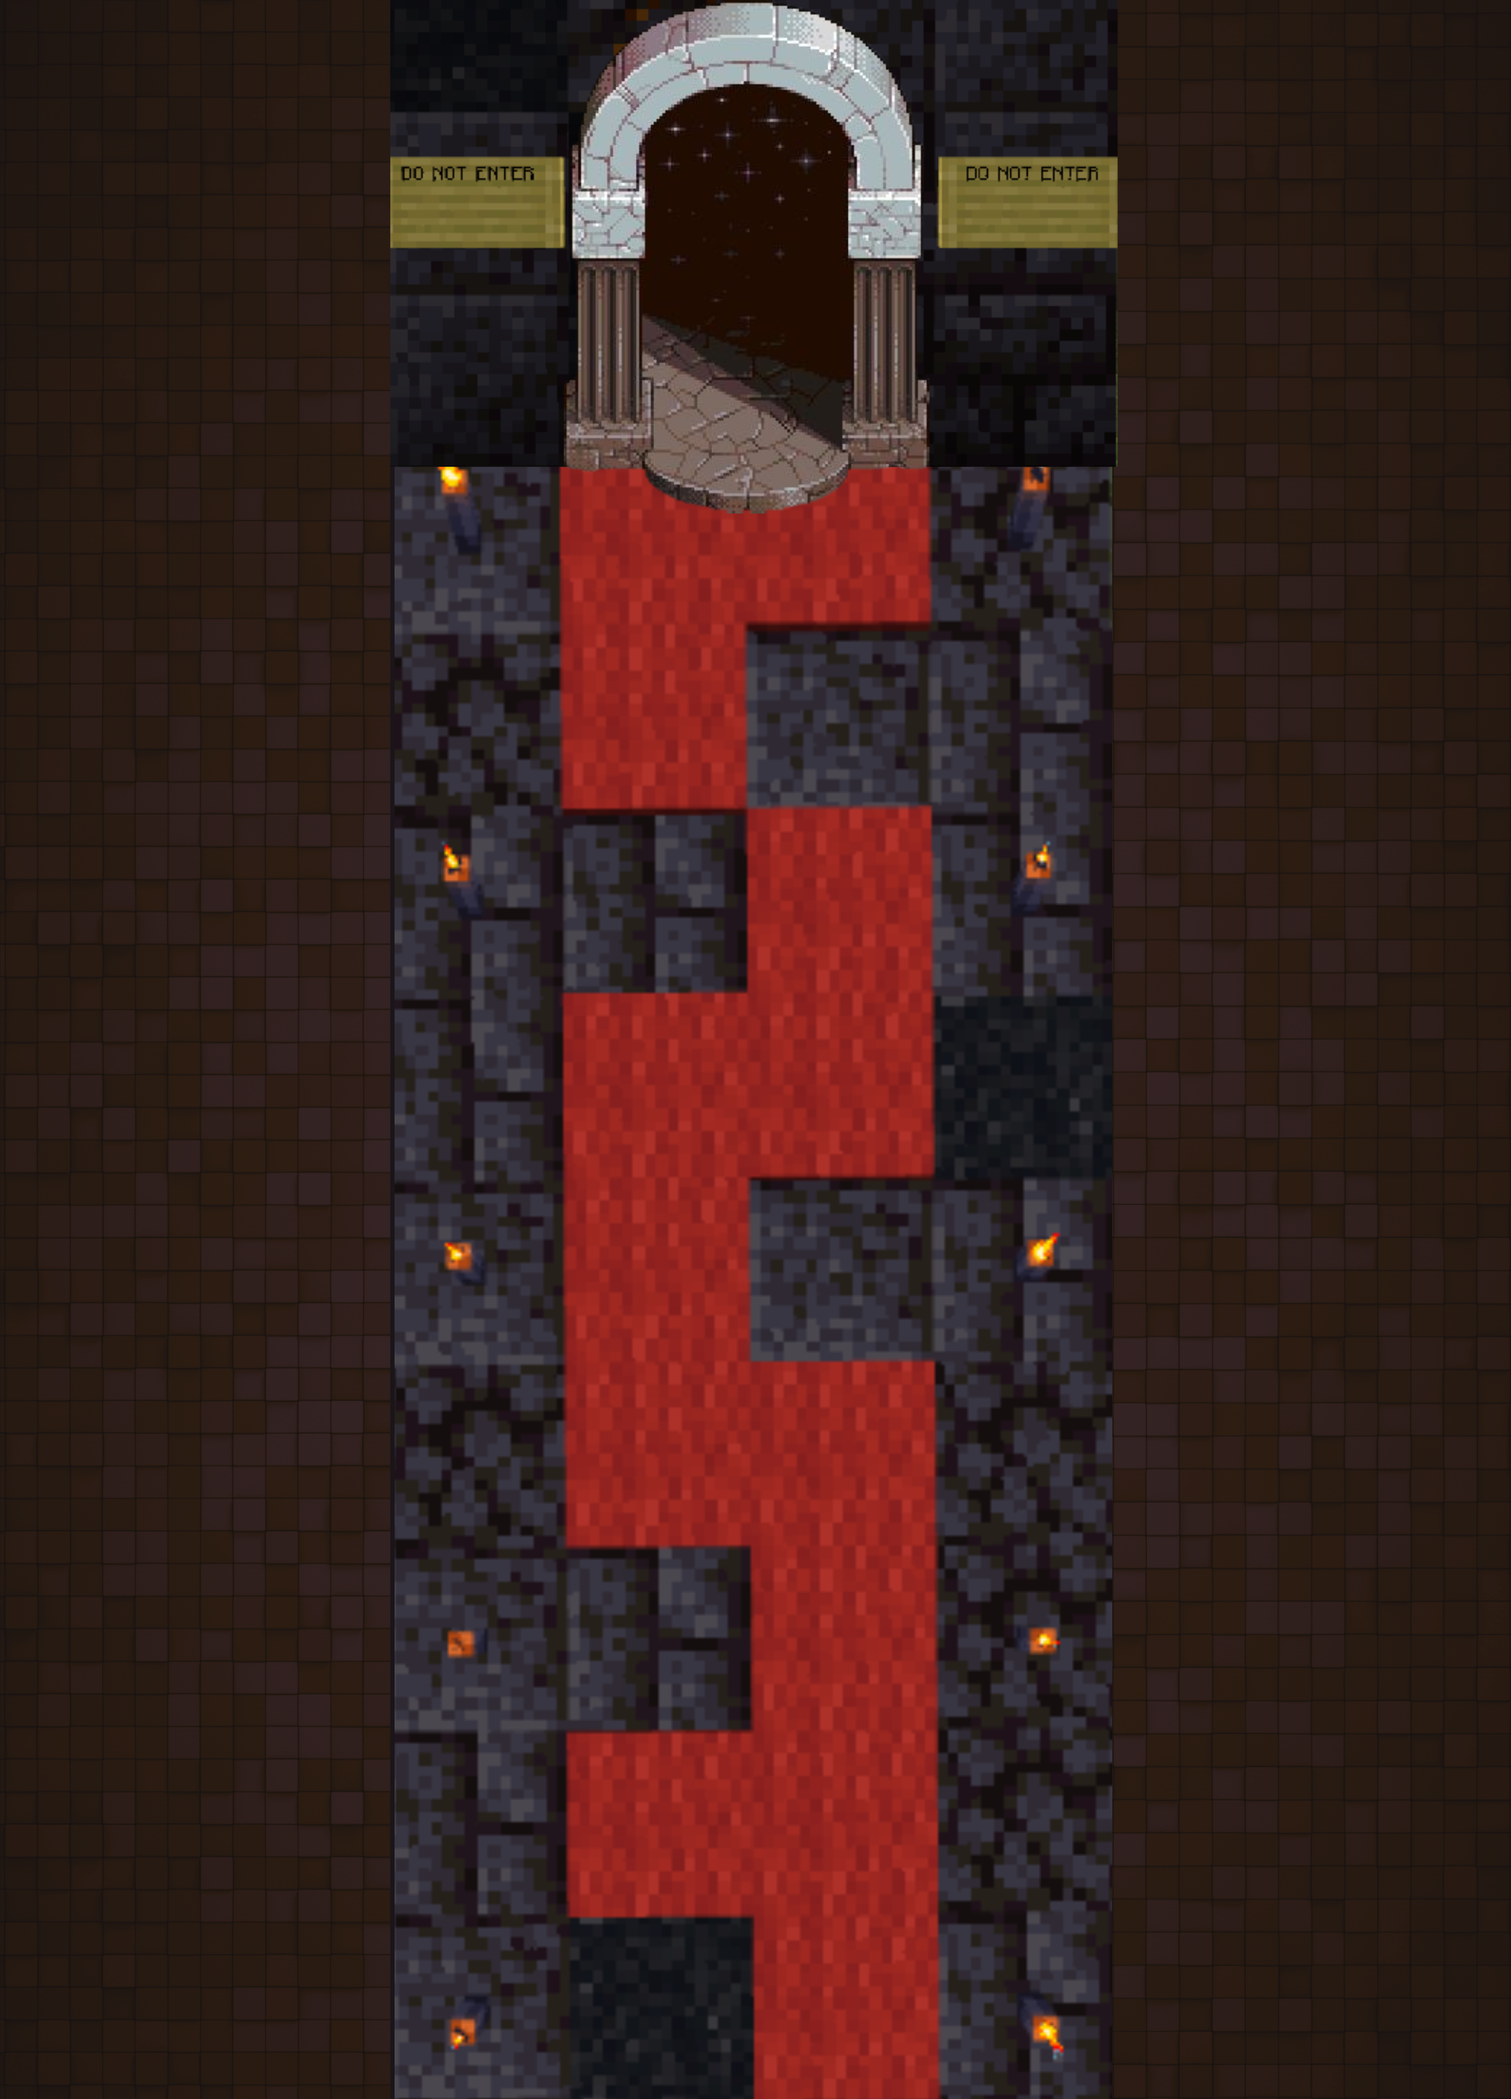
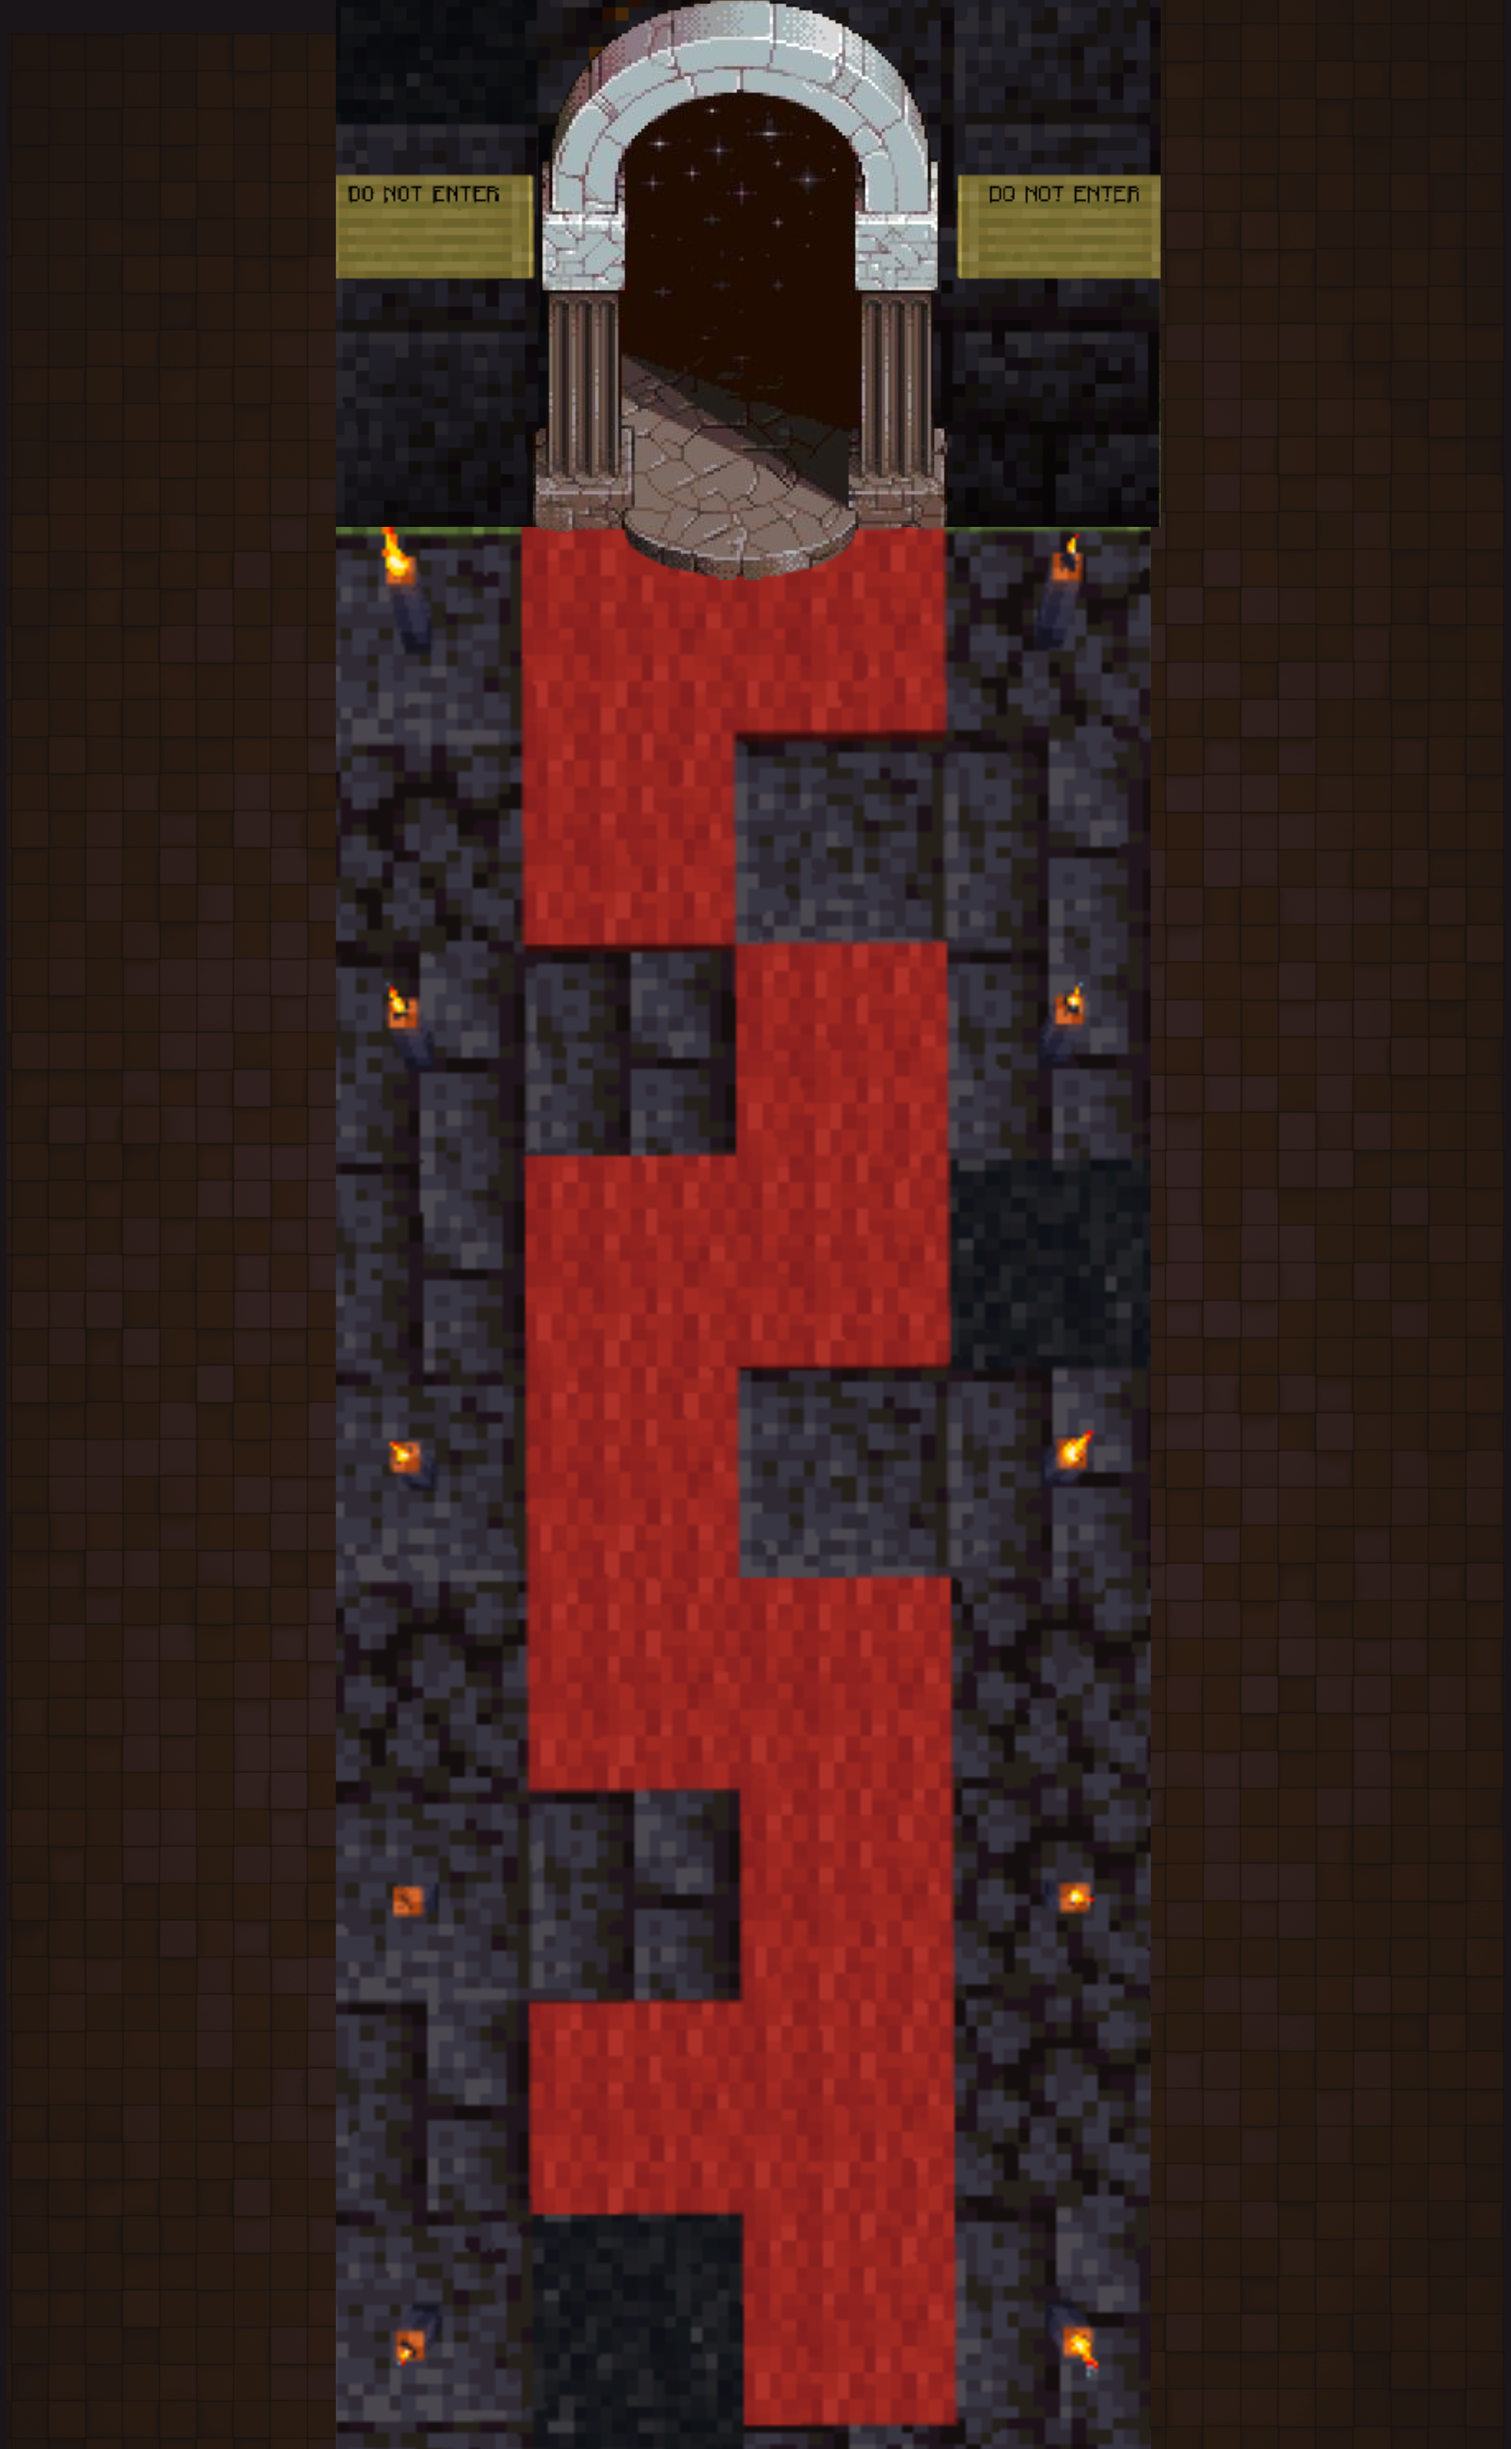
modified:   Scenes/config.py 	modified:   Scenes/fight.py 	modified:   Scenes/hallway.py 	modified:   Scenes/start.py 	modified:   images/floor3.png

Changed region(s): [[0.2171, 0.0, 0.7755, 1.0], [0.7444, 0.0, 0.7755, 0.031]]

diff --git a/Scenes/hallway.py b/Scenes/hallway.py
@@ -78,7 +78,7 @@ class Enemy(Entity):
                 next=self.next,
                 room=0,
                 enemy_image=self.image,
-                scale=self.scale,
+                scale=20 / self.width,
             )
             levels[level_manager.current_level]["entities"].enemy.hidden = True
 
@@ -155,10 +155,10 @@ right_rooms = [
 ]
 
 
-def load_floor3():
+def load_final_room():
     global text_anim
 
-    level_manager.load_level("floor3", player_pos=(0, 0))
+    level_manager.load_level("final_room", player_pos=(0, 0))
     sprite = Actor("narrative_icon", pos=(100, 580))
 
     text_anim = Dialogue(
@@ -187,7 +187,7 @@ def next_floor(current_floor):
         return
 
     if current_floor == "floor":
-        level_manager.load_level("floor2")
+        level_manager.load_level("floor2", player_pos=(0, -378))
         total_scrolls += SECOND_SCROLLS
         key_counter = 0
     if (
@@ -195,7 +195,7 @@ def next_floor(current_floor):
         and key_counter == 1
         and scroll_counter >= total_scrolls
     ):
-        load_floor3()
+        level_manager.load_level("floor3", player_pos=(0, 453))
 
 
 def create_room(name, world, floor, next_player_pos, left_side, enemy_type, scale=0.15):
@@ -217,7 +217,7 @@ def create_room(name, world, floor, next_player_pos, left_side, enemy_type, scal
             )
         ] + right_rooms
         enemy_spawn = (100, 0)
-    
+
     return {
         "world": Actor(world, scale=662 / 1080),
         "colliders": colliders,
@@ -402,14 +402,16 @@ levels = {
         ],
         "entities": ActorContainer(),
     },
-    "room1": create_room("room1", "stone_left", "floor", (-84, -370), True, 'green_moth'),
-    "room2": create_room("room2", "netherite_right", "floor", (96, -370), False, 'red_hood'),
-    "room3": create_room("room3", "wood_left", "floor", (-84, 48), True, 'dragon'),
-    "room4": create_room("room4", "stone_right", "floor", (96, 48), False, 'green_moth'),
-    "room5": create_room("room5", "purple_left", "floor", (-84, 219), True, 'green_moth'),
-    "room6": create_room("room6", "purple_right", "floor", (96, 219), False, 'green_moth'),
-    "room7": create_room("room7", "netherite_left", "floor", (-84, 501), True, 'green_moth'),
-    "room8": create_room("room8", "wood_right", "floor", (96, 501), False, 'green_moth'),
+    "room1": create_room(
+        "room1", "stone_left", "floor", (-84, -370), True, "green_moth", scale=0.1
+    ),
+    "room2": create_room("room2", "netherite_right", "floor", (96, -370), False, "scorpion", scale=0.15),
+    "room3": create_room("room3", "wood_left", "floor", (-84, 48), True, "dragon", scale=0.2),
+    "room4": create_room("room4", "stone_right", "floor", (96, 48), False, "dragon", scale=0.2),
+    "room5": create_room("room5", "purple_left", "floor", (-84, 219), True, "red_hood", scale=0.3),
+    "room6": create_room("room6", "purple_right", "floor", (96, 219), False, "green_moth", scale=0.1),
+    "room7": create_room("room7", "netherite_left", "floor", (-84, 501), True, "red_hood", scale=0.3),
+    "room8": create_room("room8", "wood_right", "floor", (96, 501), False, "scorpion", scale=0.15),
     "floor2": {
         "world": Actor("floor2", scale=0.3),
         "colliders": [
@@ -453,19 +455,33 @@ levels = {
         ],
         "entities": ActorContainer(),
     },
-    "room1-2": create_room("room1-2", "smooth_left", "floor2", (-84, -370), True, 'green_moth'),
-    "room2-2": create_room("room2-2", "brick_right", "floor2", (96, -370), False, 'green_moth'),
-    "room3-2": create_room("room3-2", "block_left", "floor2", (-84, 48), True, 'green_moth'),
-    "room4-2": create_room("room4-2", "smooth_right", "floor2", (96, 48), False, 'green_moth'),
-    "room5-2": create_room("room5-2", "brick_left", "floor2", (-84, 219), True, 'green_moth'),
-    "room6-2": create_room("room6-2", "block_right", "floor2", (96, 219), False, 'green_moth'),
+    "room1-2": create_room("room1-2", "smooth_left", "floor2", (-84, -370), True, "dragon", scale=0.2),
+    "room2-2": create_room("room2-2", "brick_right", "floor2", (96, -370), False, "red_hood", scale=0.3),
+    "room3-2": create_room("room3-2", "block_left", "floor2", (-84, 48), True, "scorpion", scale=0.15),
+    "room4-2": create_room("room4-2", "smooth_right", "floor2", (96, 48), False, "green_moth", scale=0.1),
+    "room5-2": create_room("room5-2", "brick_left", "floor2", (-84, 219), True, "dragon", scale=0.2),
+    "room6-2": create_room("room6-2", "block_right", "floor2", (96, 219), False, "red_hood", scale=0.3),
     "floor3": {
+        "world": Actor("floor3", scale=0.3),
+        "colliders": [
+            ColliderRect((-2160 * 0.3 / 2 + 81, -3500 * 0.3 / 2), (81, 3500 * 0.3)),
+            ColliderRect((2160 * 0.3 / 2 - 81 * 2, -3500 * 0.3 / 2), (81, 3500 * 0.3)),
+            ColliderRect((-2160 * 0.3 / 2 + 81, 3500 * 0.3 / 2), (3500 * 0.3, 10)),
+            ColliderRect(
+                (-2160 * 0.3 / 2 + 81, -3500 * 0.3 / 2 + 80),
+                (3500 * 0.3, 10),
+                fn=load_final_room,
+            ),
+        ],
+        'entities': ActorContainer()
+    },
+    "final_room": {
         "world": Actor("final_room"),
         "colliders": [
-            ColliderRect((-2300 / 2 * 0.3, -1300 / 2 * 0.3 - 10), (2300 * 0.3, 10)),
-            ColliderRect((2300 / 2 * 0.3, -1300 / 2 * 0.3), (10, 1300 * 0.3)),
-            ColliderRect((-2300 / 2 * 0.3, 1300 / 2 * 0.3 - 10), (2300 * 0.3, 10)),
-            ColliderRect((-2300 / 2 * 0.3 - 10, -1300 / 2 * 0.3), (10, 1300 * 0.3)),
+            ColliderRect((-662 / 2, -662 / 2 - 10), (662, 10)),
+            ColliderRect((662 / 2, -662 / 2), (10, 662)),
+            ColliderRect((-662 / 2, 662 / 2 - 10), (662, 10)),
+            ColliderRect((-662 / 2 - 10, -662 / 2), (10, 662)),
         ],
         "entities": ActorContainer(),
     },
@@ -526,6 +542,8 @@ class hallway(Scene):
 
         if text_anim is None or text_anim.is_complete():
             player.move()
+            
+        print(player.pos)
 
     def on_draw(self, screen):
         level_manager.draw(screen)

diff --git a/Scenes/start.py b/Scenes/start.py
@@ -3,8 +3,10 @@ from helper import Actor, ActorContainer, Music
 from pgzero.builtins import animate
 from Game import Button
 from . import config
+import sys
 
 player_button_pressed = False
+
 
 def fade_ui_elements(group: ActorContainer):
     for elm in group:
@@ -14,6 +16,11 @@ def fade_ui_elements(group: ActorContainer):
     group.hidden = False
     group.opacity = 0
     animate(group, opacity=255)
+
+
+def outro_sequence():
+    ui_elements.hidden = True
+    intro.play_gif("outro_card", iterations=1, on_finish=lambda: sys.exit(0))
 
 
 def set_difficulty(mode):
@@ -32,7 +39,7 @@ class StartScreen(Scene):
 
     def on_show(self, play_intro=True):
         global intro, ui_elements, play_button
-        
+
         def press_player_button():
             global player_button_pressed
             if not player_button_pressed:
@@ -49,34 +56,35 @@ class StartScreen(Scene):
         difficulty = ActorContainer(
             easy=Button(
                 "easy.png",
-                pos=(331, 480),
+                pos=(331, 490),
                 on_click=lambda key, unicode: set_difficulty("easy"),
                 scale=0.1,
             ),
             middle=Button(
                 "medium.png",
-                pos=(331, 520),
+                pos=(331, 530),
                 on_click=lambda key, unicode: set_difficulty("medium"),
                 scale=0.1,
             ),
             hard=Button(
                 "hard.png",
-                pos=(331, 560),
+                pos=(331, 570),
                 on_click=lambda key, unicode: set_difficulty("hard"),
                 scale=0.1,
             ),
             hidden=True,
         )
-        
-        play_button = Button(
-            "play_button.png",
-            pos=(331, 400),
-            on_click=lambda key, unicode: press_player_button(),
-            scale=0.1,
-        )
-        
+
         ui_elements = ActorContainer(
-            narrative_button=play_button,
+            narrative_button=Button(
+                "play_button.png",
+                pos=(331, 400),
+                on_click=lambda key, unicode: press_player_button(),
+                scale=0.1,
+            ),
+            exit_button=Button(
+                "exit", pos=(331, 450), on_click=lambda key, unicode: outro_sequence(), scale=0.1
+            ),
             difficulty_group=difficulty,
             hidden=True,
         )
@@ -105,9 +113,6 @@ class StartScreen(Scene):
 
     def on_mouse_down(self, pos, button):
         ui_elements.on_click(pos, button)
-
-    def on_key_down(self, key, unicode):
-        intro.skip_gif()
 
     def reset(self):
         global player_button_pressed

diff --git a/Scenes/config.py b/Scenes/config.py
@@ -6,7 +6,7 @@ exercise_sets = {
             {"exercise": (2, 4), "sets": (7, 10)},
             {"exercise": (3, 6), "sets": (10, 13)},
         ],
-        'time_limit': 60
+        'time_limit': 45
     },
     "medium": {
         "sets": [
@@ -14,7 +14,7 @@ exercise_sets = {
             {"exercise": (2, 4), "sets": (7, 10)},
             {"exercise": (2, 4), "sets": (7, 10)},
         ],
-        'time_limit': 45
+        'time_limit': 30
     },
     "hard": {
         "sets": [
@@ -22,11 +22,9 @@ exercise_sets = {
             {"exercise": (2, 4), "sets": (7, 10)},
             {"exercise": (2, 4), "sets": (7, 10)},
         ],
-        'time_limit': 30
+        'time_limit': 20
     },
 }
-
-
 
 def set_difficulty(difficulty):
     global exercise, mode, time_limit

diff --git a/Scenes/fight.py b/Scenes/fight.py
@@ -87,7 +87,7 @@ def anim():
     schedule(move_enemy, 2)
 
 
-def create_new_objective(rec):
+def create_objectives(rec):
     min_count, max_count = rec["exercise"]
     count = random.randint(min_count, max_count)
     for i in range(count):
@@ -173,10 +173,8 @@ class battle(Scene):
         enemy_sprite.scale = scale
 
         reset()
-        create_new_objective(config.exercise[room])
-        
-        print(config.exercise[room])
-
+        create_objectives(config.exercise[room])
+    
     def on_hide(self):
         pass
 
